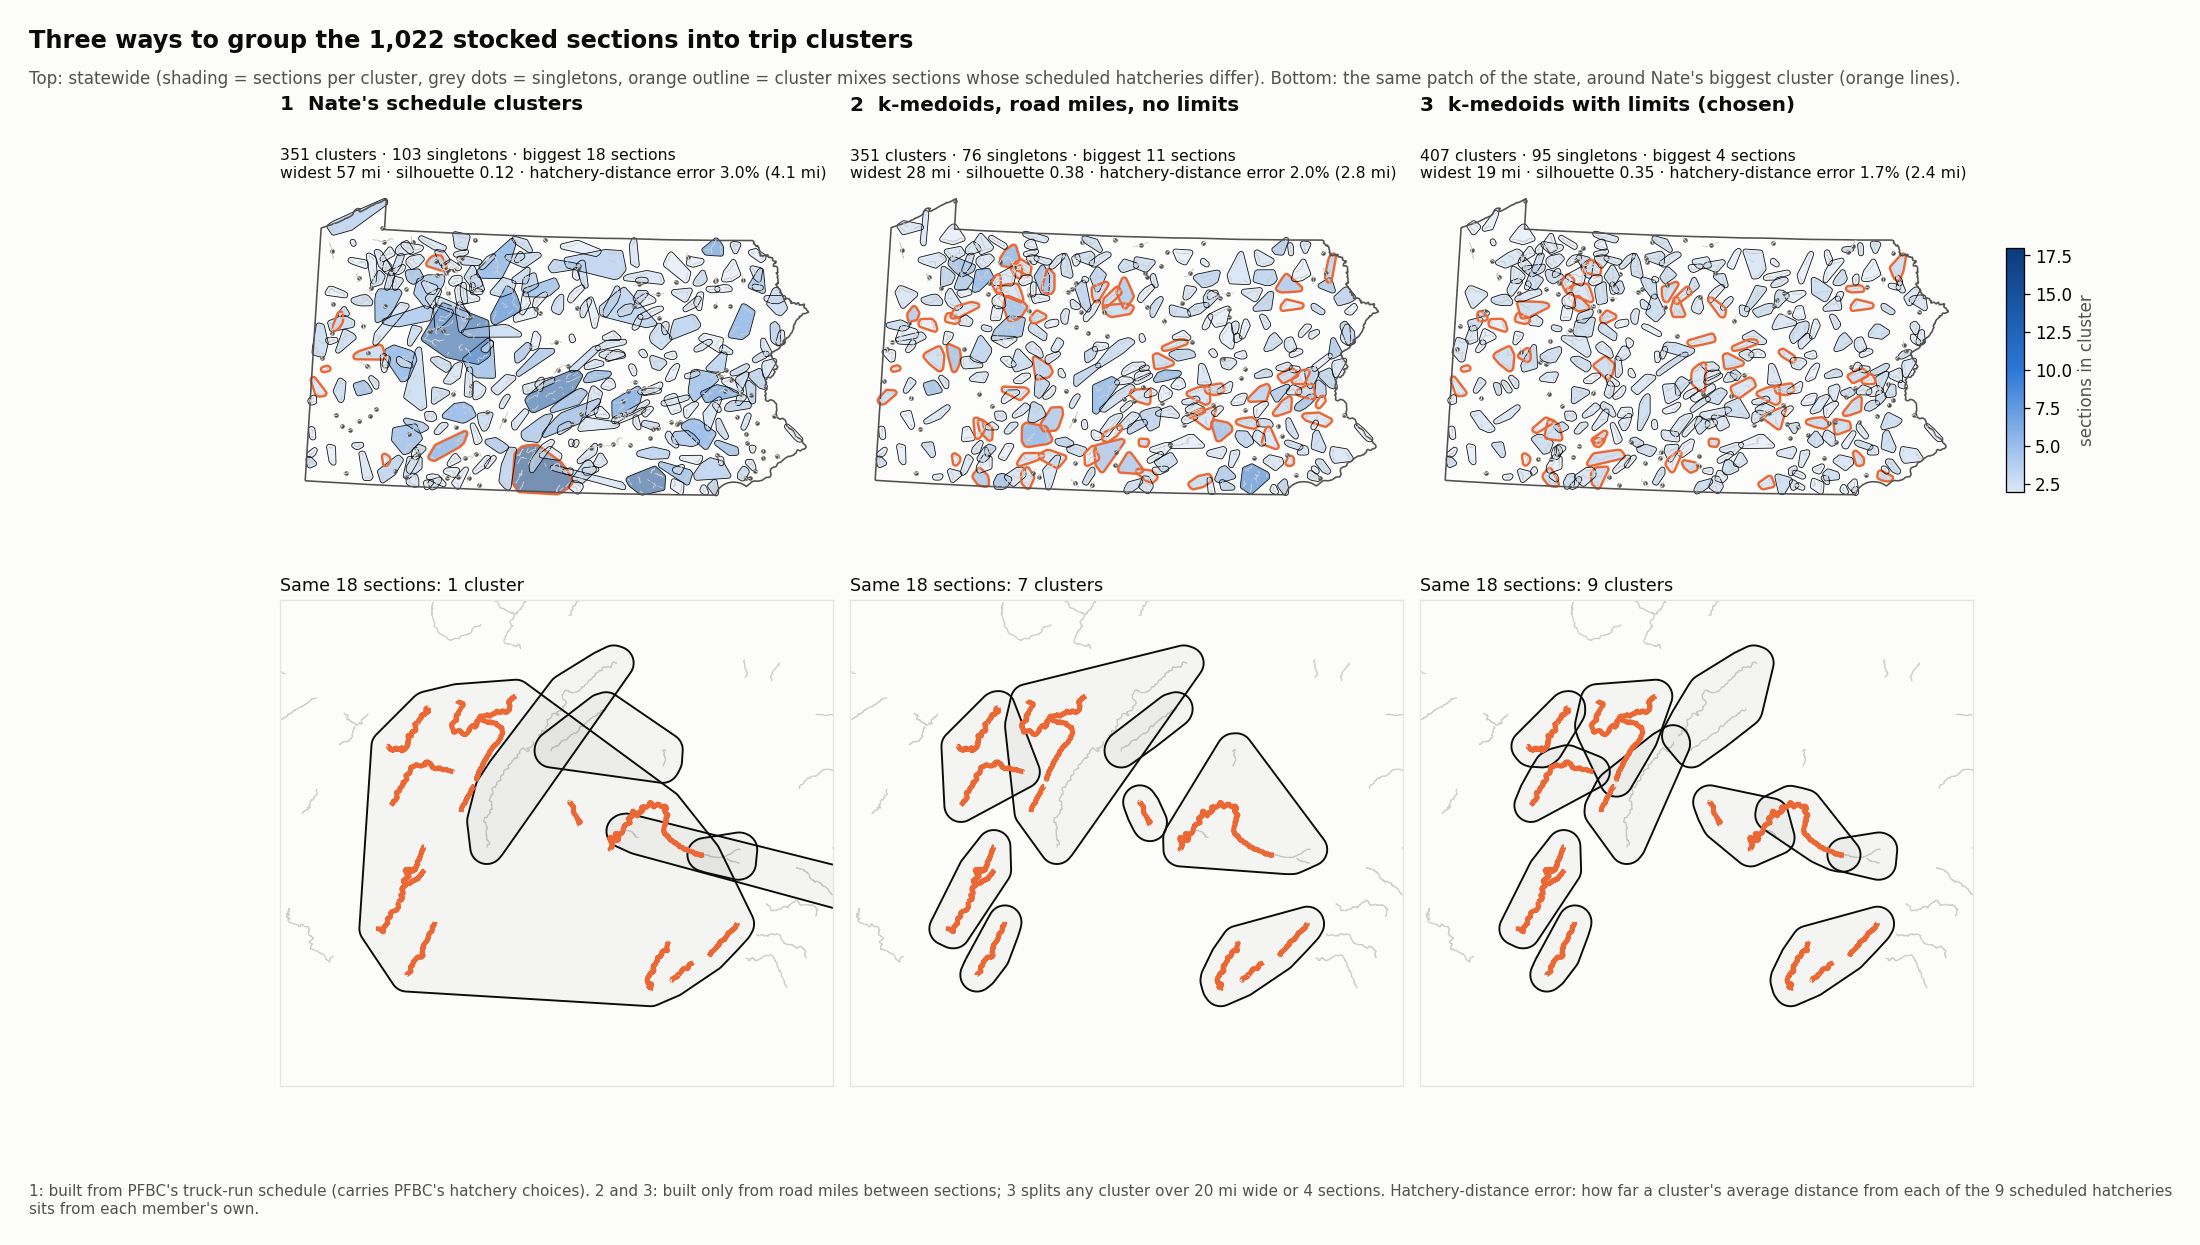
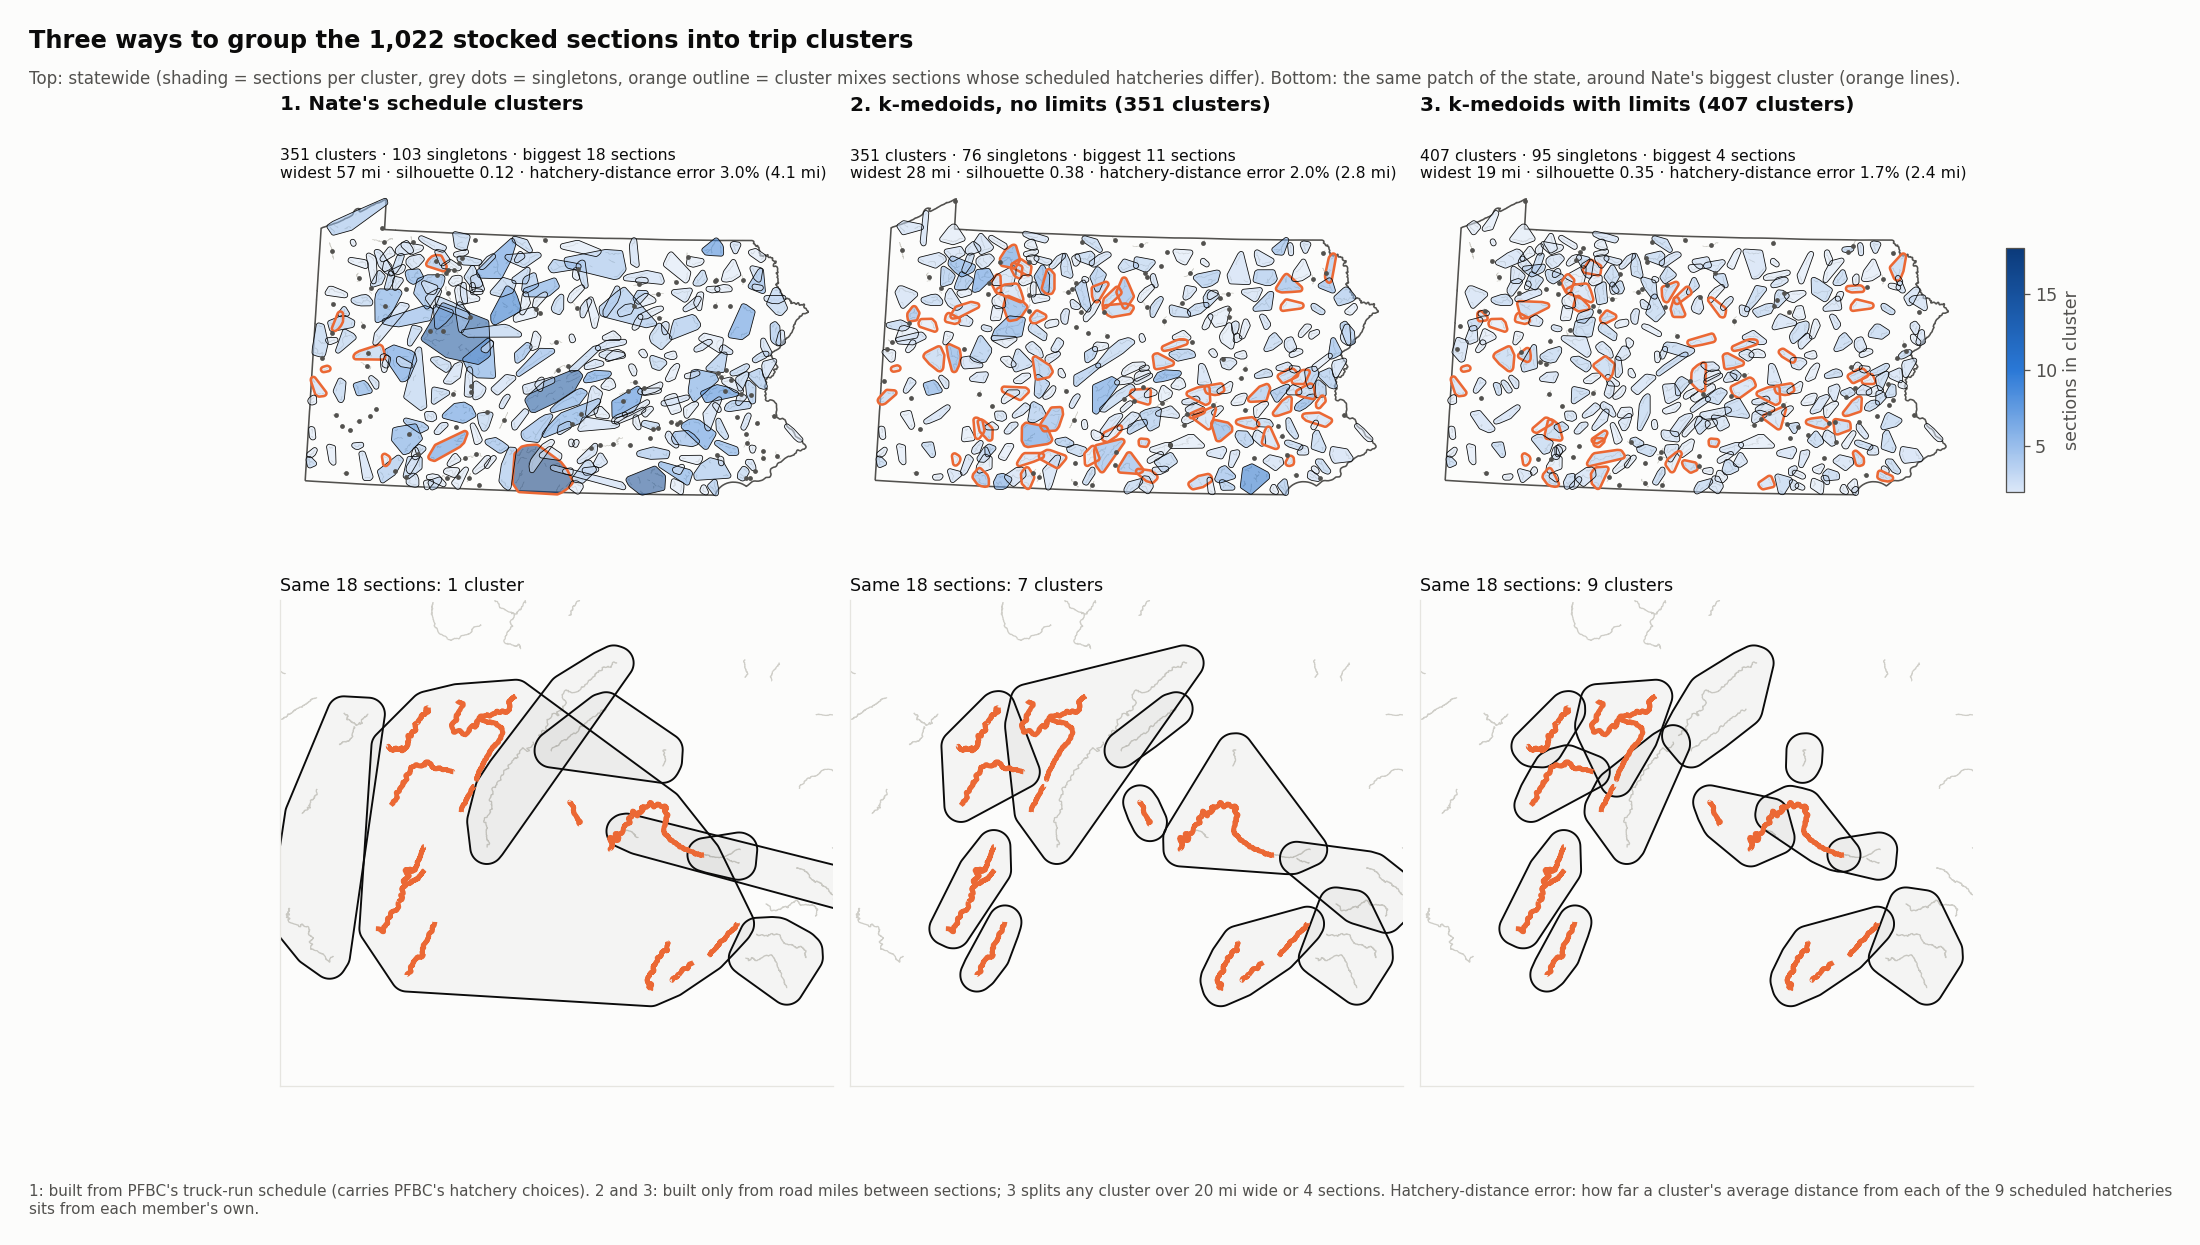
Make the three-approach comparison figure reproducible from script 13
Script 13 now also builds plain k-medoids at Nate's count (approach 2), writes a
three-column comparison.csv, and draws approach_comparison.png (statewide maps plus a
zoom on Nate's biggest cluster). Previously the figure came from a scratch script.

diff --git a/scripts/13_medoid_clusters.py b/scripts/13_medoid_clusters.py
@@ -20,9 +20,9 @@ Inputs : data/processed/section_to_section_road_distance.parquet   road miles be
          data/processed/pa_trout.gpkg (sections layer)              section lines, for the maps (gitignored; rebuilt by 01-02)
          data/raw/pa_boundary.gpkg                                   state outline for the maps (optional)
 Outputs: data/processed/section_medoid_clusters.{parquet,csv}       one row per section: its k-medoids cluster and medoid
-         outputs/tables/medoid_clusters/comparison.csv              Nate's clusters vs k-medoids, side by side
+         outputs/tables/medoid_clusters/comparison.csv              the three approaches side by side (Nate, k-medoids, k-medoids with limits)
          outputs/tables/medoid_clusters/silhouette_by_k.csv         silhouette and total distance for a range of k
-         outputs/figures/medoid_clusters/maps.png, silhouette.png
+         outputs/figures/medoid_clusters/maps.png, silhouette.png, approach_comparison.png (all three approaches, statewide and zoomed)
          logs/13_medoid_clusters.log
 
     python scripts/13_medoid_clusters.py [--restarts 30]
@@ -189,23 +189,30 @@ def describe(lab, name):
             "total distance to cluster center (mi)": round(float(np.sum(to_center)), 0)}, sil
 
 
-tab_n, sil_n = describe(nate, "Nate's schedule clusters")
-tab_k, sil_k = describe(kmed, f"k-medoids on road miles with limits ({K} clusters)")
+N_NATE = int(ss["cluster_id"].nunique())
+_, plain, _ = best_of(N_NATE, args.restarts)              # approach 2: plain k-medoids with Nate's count and no limits
+tab_n, sil_n = describe(nate, "1. Nate's schedule clusters")
+tab_p, sil_p = describe(plain, f"2. k-medoids, no limits ({N_NATE} clusters)")
+tab_k, sil_k = describe(kmed, f"3. k-medoids with limits ({K} clusters)")
+
+_hm = pd.read_parquet(PROCESSED_DIR / "hatchery_to_section_road_distance.parquet").pivot_table(index="section_id", columns="hatchery", values="road_mi").reindex(ids)
+H = _hm[[c for c in _hm.columns if any(s.lower() in c.lower() for s in SCHEDULED)]].to_numpy()   # sections x 9 scheduled hatcheries
 
 
 def hatchery_error(lab):
-    """Cluster-average road distance from each scheduled hatchery vs. each member's own, as a share of total distance."""
-    hm = pd.read_parquet(PROCESSED_DIR / "hatchery_to_section_road_distance.parquet").pivot_table(index="section_id", columns="hatchery", values="road_mi").reindex(ids)
-    H = hm[[c for c in hm.columns if any(s.lower() in c.lower() for s in SCHEDULED)]].to_numpy()
+    """Cluster-average road distance from each scheduled hatchery vs. each member's own: (mean mi, p90 mi, share of total distance)."""
     err = np.zeros_like(H)
     for c in np.unique(lab):
         g = np.flatnonzero(lab == c); err[g] = H[g].mean(0) - H[g]
-    return f"{np.abs(err).mean():.1f} mi mean, {np.quantile(np.abs(err), .9):.1f} mi p90 ({100 * np.abs(err).sum() / H.sum():.1f}% of distance)"
+    return np.abs(err).mean(), np.quantile(np.abs(err), .9), 100 * np.abs(err).sum() / H.sum()
 
 
-tab_n["hatchery_distance_error"] = hatchery_error(nate); tab_k["hatchery_distance_error"] = hatchery_error(kmed)
-comparison = pd.DataFrame([tab_n, tab_k]).set_index("method").T
-comparison.loc["agreement between the two (adjusted Rand, 0 to 1)"] = ["", round(adjusted_rand_score(nate, kmed), 2)]
+herr = {}
+for t, lab in ((tab_n, nate), (tab_p, plain), (tab_k, kmed)):
+    herr[t["method"]] = e = hatchery_error(lab)
+    t["hatchery_distance_error"] = f"{e[0]:.1f} mi mean, {e[1]:.1f} mi p90 ({e[2]:.1f}% of distance)"
+comparison = pd.DataFrame([tab_n, tab_p, tab_k]).set_index("method").T
+comparison.loc["agreement with approach 3 (adjusted Rand, 0 to 1)"] = [round(adjusted_rand_score(kmed, x), 2) for x in (nate, plain, kmed)]
 comparison.to_csv(TABLE_DIR / "comparison.csv")
 print(comparison.to_string())
 
@@ -330,3 +337,39 @@ fig.text(0.01, 0.005, "Silhouette compares a section's average road distance to 
 fig.tight_layout(rect=(0, 0.07, 1, 0.92))
 fig.savefig(FIG_DIR / "silhouette.png", dpi=120)
 log.info("saved figures to %s", FIG_DIR.relative_to(ROOT))
+
+
+# %% Figure 3: all three approaches, statewide and zoomed on Nate's biggest cluster
+approaches = [(tab_n["method"], nate, tab_n, sil_n), (tab_p["method"], plain, tab_p, sil_p), (tab_k["method"], kmed, tab_k, sil_k)]
+fig = plt.figure(figsize=(19, 10.6))
+gs = fig.add_gridspec(2, 3, height_ratios=[0.8, 1], hspace=0.12, wspace=0.03)
+fig.suptitle("Three ways to group the 1,022 stocked sections into trip clusters", x=0.01, ha="left", fontsize=15, fontweight="bold")
+fig.text(0.01, 0.935, "Top: statewide (shading = sections per cluster, grey dots = singletons, orange outline = cluster mixes sections whose scheduled hatcheries differ). "
+         "Bottom: the same patch of the state, around Nate's biggest cluster (orange lines).", fontsize=10.5, color=INK2)
+for j, (name, lab, tab, _) in enumerate(approaches):
+    ax = fig.add_subplot(gs[0, j])
+    state_map(ax, lab, name)
+    ax.set_title(name, loc="left", fontsize=12.5, fontweight="bold", pad=46)
+    e = herr[name]
+    ax.text(0, 1.01, f"{tab['clusters']} clusters · {tab['singletons']} singletons · biggest {tab['biggest']} sections\n"
+            f"widest {tab['widest (mi)']:.0f} mi · silhouette {tab['mean silhouette']:.2f} · hatchery-distance error {e[2]:.1f}% ({e[0]:.1f} mi)",
+            transform=ax.transAxes, fontsize=9.8, color=INK, va="bottom")
+    z = fig.add_subplot(gs[1, j])
+    z.set_xlim(minx - 12000, maxx + 12000); z.set_ylim(miny - 12000, maxy + 12000)
+    gpd.GeoSeries(geom).plot(ax=z, color="#cfcec8", lw=0.8)
+    gpd.GeoSeries(geom.iloc[big_idx]).plot(ax=z, color=ORANGE, lw=3.0, zorder=4)
+    hh = hulls_of(lab)
+    for c in {lab[i] for i in range(n) if hh[lab[i]].intersects(big_hull)}:          # every cluster that reaches the patch
+        poly(z, hh[c], facecolor="#00000008", edgecolor=INK, lw=1.2, zorder=2)
+    z.set_aspect("equal"); z.set_xticks([]); z.set_yticks([])
+    for s_ in z.spines.values():
+        s_.set_color(GRID)
+    n_in = len(set(lab[big_idx]))
+    z.set_title(f"Same {len(big_idx)} sections: {n_in} cluster{'s' if n_in > 1 else ''}", loc="left", fontsize=11)
+fig.colorbar(ScalarMappable(norm=norm, cmap=cmap), cax=fig.add_axes([0.915, 0.60, 0.008, 0.2])).set_label("sections in cluster", color=INK2)
+fig.text(0.01, 0.01, "1: built from PFBC's truck-run schedule (carries PFBC's hatchery choices). 2 and 3: built only from road miles between sections; 3 splits any cluster "
+         f"over {MAX_W:.0f} mi wide or {MAX_N} sections. Hatchery-distance error: how far a cluster's average distance from each of the 9 scheduled hatcheries sits from each member's own.",
+         fontsize=9.5, color=INK2, wrap=True)
+fig.savefig(FIG_DIR / "approach_comparison.png", dpi=115, bbox_inches="tight", pad_inches=0.25)
+plt.close(fig)
+log.info("saved approach_comparison.png")
